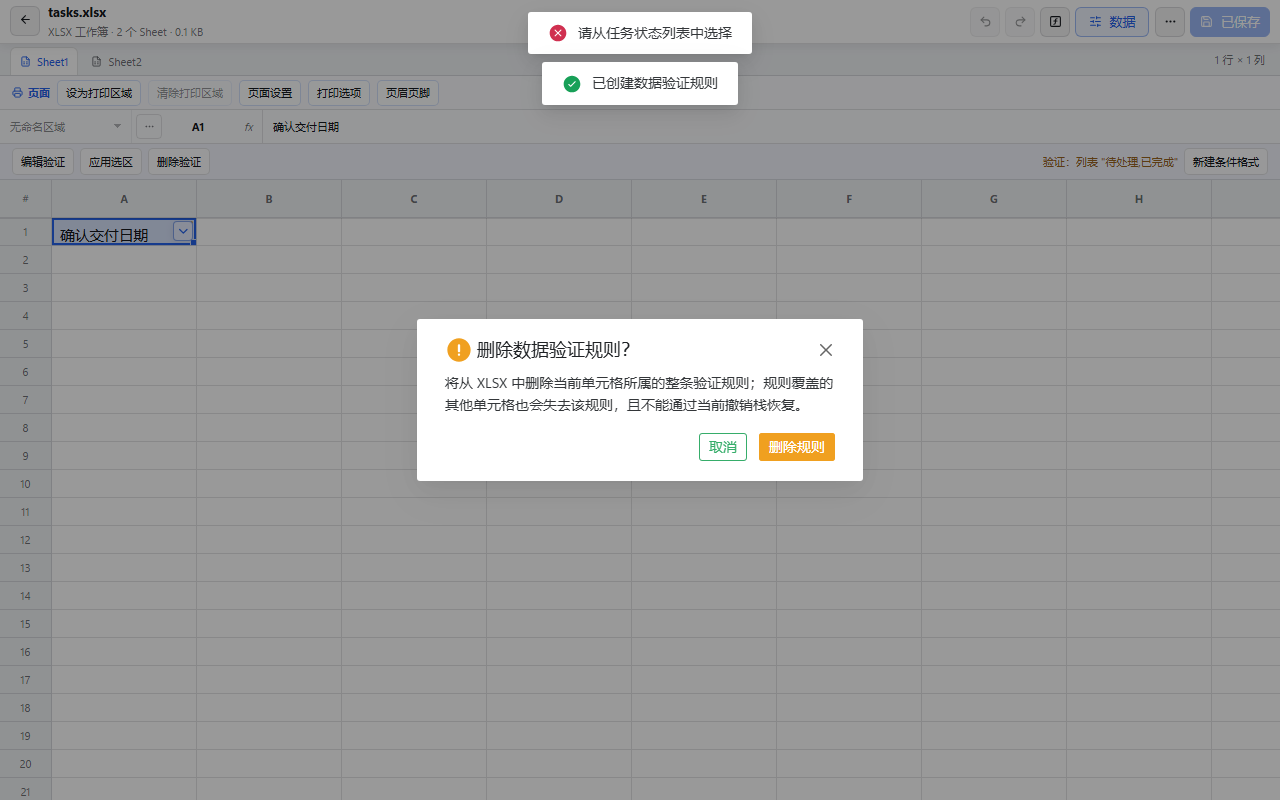
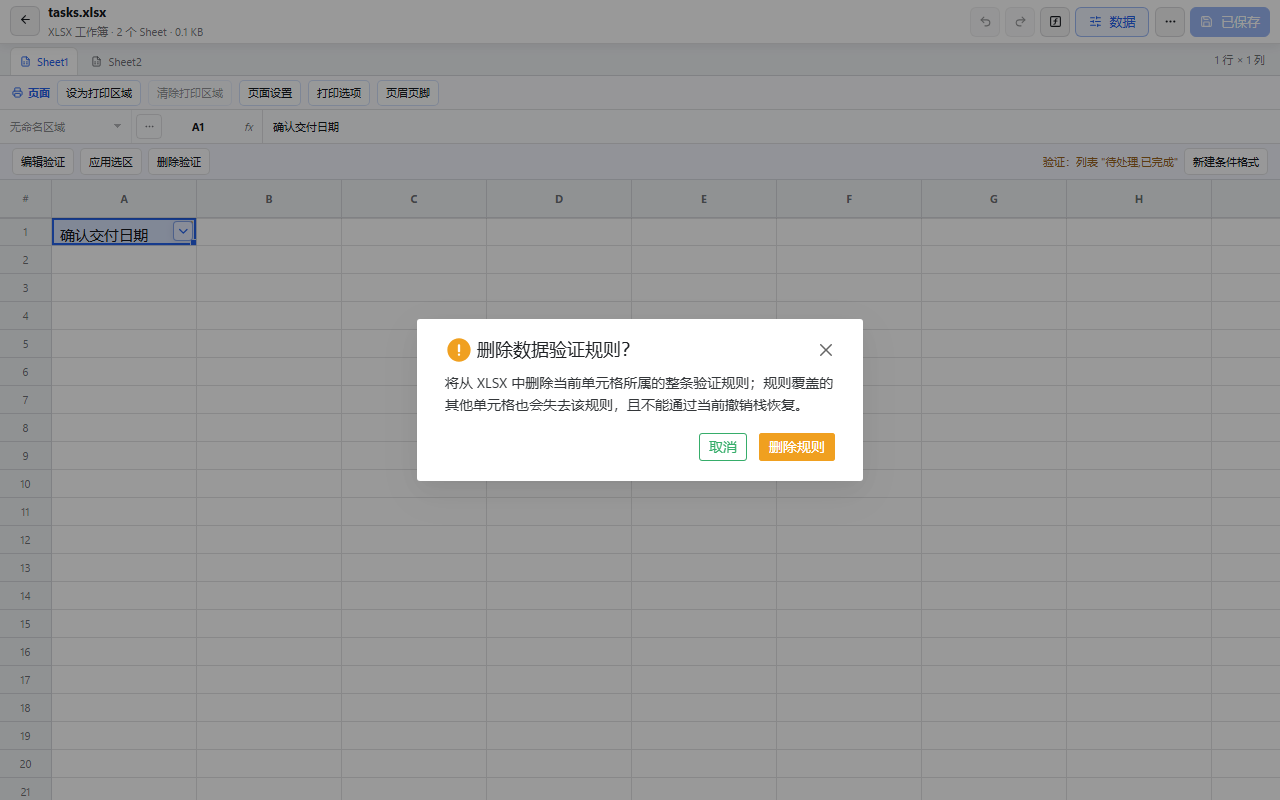
fix(workbook): skip validation for unchanged formula input

Changed region(s): [[0.4062, 0.0, 0.5938, 0.1562]]

diff --git a/src/views/WorkbookView.vue b/src/views/WorkbookView.vue
@@ -2514,6 +2514,9 @@ const resetFormulaInput = () => {
 const commitFormulaInput = () => {
   const selection = selectedCell.value
   if (!selection || !selectedEditable.value) return
+  // Reloads and recalculation also flush the formula bar. Validate only a new
+  // input, not an unchanged existing value that predates the validation rule.
+  if (formulaInput.value === originalInput(cellAt(selection.row, selection.column))) return
   const validation = validationAt(selection.row, selection.column)
   if (validation?.showErrorMessage && validation.kind === 'list' && formulaInput.value && !formulaInput.value.startsWith('=')) {
     const options = literalValidationOptions(validation)

diff --git a/docs/V1_1_0_F1_Workbook_Validation_Context_2026-10-11.md b/docs/V1_1_0_F1_Workbook_Validation_Context_2026-10-11.md
@@ -2,6 +2,16 @@
 
 日期：2026-10-11。承接格式/填充边界审计，目标版本仍为 1.1.0，未封板。
 
+## 后续修复：未修改的旧值不作为新输入校验
+
+已定位上一轮截图中的误报：`commitDataValidationChange → restoreTableSelection → recalculateLoadedFormulas → commitFormulaInput` 在回读后自动提交公式栏。该栏虽然没有变化，原代码仍按新列表规则校验旧值，导致成功与错误提示并存。
+
+现于 `commitFormulaInput` 校验前比较输入与当前有效单元格内容；未变化则直接返回，不新增草稿、撤销记录或错误。真实的新非法输入仍报错且不提交，合法输入仍形成可撤销草稿；不删除规则、不放宽列表校验。
+
+验证：边界测试现为 8 项通过，类型检查通过。后台实际页面创建列表后无错误提示；手工式输入“其他状态”会显示既有错误文案且单元格保持原值，Escape 放弃输入后可继续取消/确认删除。测试额外断言错误观察器能捕获真实非法输入，避免无效监听造成假通过。已重新查看删除确认截图，说明和按钮正常；截图更新为修复后状态，修复前图片可从提交 `5f0db2ca` 查看。
+
+本步不改布局、不接管桌面。测试依然是实际 Vue 页面配合模拟 IPC，不代表原生 XLSX 写盘验收。接下来继续数据验证写入回执归属、条件格式/对象异步入口及草稿协调；未封板。
+
 ## 代码审计与本步修复
 
 原有 `editDataValidationRule` 在多步弹窗结束后直接使用当时的 `activeSheet`，同时沿用打开时的规则索引/范围；删除确认回调也混用了这两种时间点的状态。若等待期间编辑上下文变化，存在操作其他目标的风险。

diff --git a/docs/Development_Handoff.md b/docs/Development_Handoff.md
@@ -1,5 +1,7 @@
 # Long Markdown Reader 开发交接
 
+> **2026-10-11 数据验证反馈修复：** [审计记录后续修复](./V1_1_0_F1_Workbook_Validation_Context_2026-10-11.md) 已定位并修复回读时把未变化旧值误作新输入校验的问题；真实非法输入仍被拦截。8 项边界测试、类型检查和后台实际页面通过，截图已查看。下一步回执归属/其他异步入口，原生验收仍待完成，未封板。
+
 > **2026-10-11 最新 Workbook 数据验证：** [多步编辑与删除确认目标保护](./V1_1_0_F1_Workbook_Validation_Context_2026-10-11.md) 已补每一步及提交前的上下文复核，7 项边界测试、类型检查与后台实际页面创建/取消/删除通过。截图保留“已有值不符合新规则”时成功/错误提示并存现象，后续需查反馈时机与写入回执归属；模拟 IPC 非原生验收，未封板。
 
 > **2026-10-11 最新 Workbook 格式边界：** [格式对话框与异步填充](./V1_1_0_F1_Workbook_Format_Async_2026-10-11.md) 已补过期上下文拦截，5 项函数测试、类型检查和后台实际页面检查通过，截图已保存。未接管桌面；原生格式落盘、其他异步入口及后续草稿协调仍待完成，未封板。

diff --git a/docs/V1_1_0_Product_and_UI_Plan_2026-10-11.md b/docs/V1_1_0_Product_and_UI_Plan_2026-10-11.md
@@ -12,6 +12,8 @@
 
 ## 1. 版本定位与优先级
 
+数据验证反馈接续：已修复新规则回读时对未变化旧值的多余错误提示，真实非法新输入仍拦截；后台页面及截图已检查，详见 [后续修复记录](V1_1_0_F1_Workbook_Validation_Context_2026-10-11.md)。回执归属、原生持久化及版本其余事项未完成，未封板。
+
 最新 Workbook 数据验证：[多步输入与删除确认](V1_1_0_F1_Workbook_Validation_Context_2026-10-11.md) 已补过期编辑目标保护；实际组件页面和截图已检查。已有值不符合新规则时的反馈、原生回执及其他异步入口仍待处理，未封板。
 
 最新 Workbook 格式保护：[格式对话框/异步填充](V1_1_0_F1_Workbook_Format_Async_2026-10-11.md) 已补文档与选区归属复核；后台实际页面正常格式流程及截图已检查。原生格式持久化、其他异步入口和后续草稿协调未闭环，未封板。
